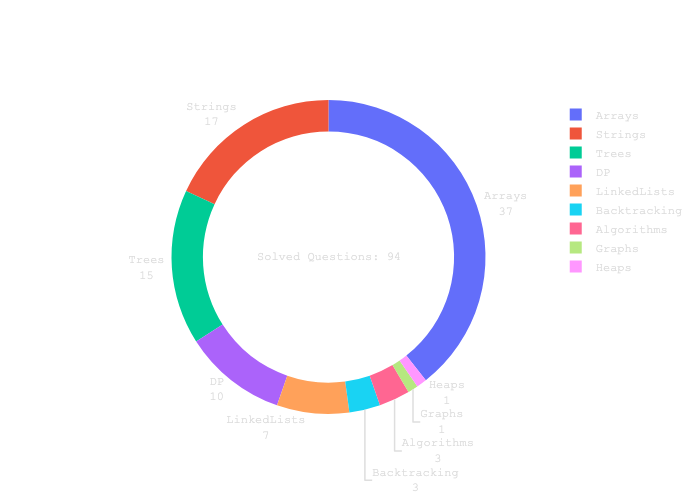
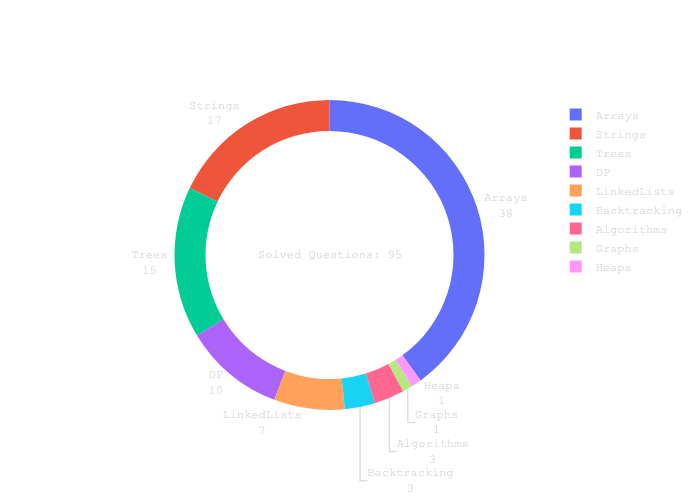
product of arr except self

diff --git a/Arrays/productExceptSelf.py b/Arrays/productExceptSelf.py
@@ -1,0 +1,22 @@
+from typing import List
+
+
+def productExceptSelf(nums: List[int]) -> List[int]:
+    N = len(nums)
+    out = [1] * N
+
+    # prefixes
+    prefix = 1
+    for i in range(N):
+        out[i] = prefix
+        prefix *= nums[i]
+
+    # postfixes
+    postfix = 1
+    for i in range(N - 1, -1, -1):
+        out[i] *= postfix
+        postfix *= nums[i]
+    return out
+
+
+print(productExceptSelf([1, 2, 3, 4]))
